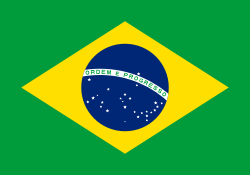
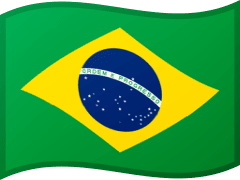
ScoreTable de los grupos con redux, banderas actualizadas

diff --git a/state/GroupsSlice.ts b/state/GroupsSlice.ts
@@ -1,9 +1,9 @@
 import { createSlice, PayloadAction } from '@reduxjs/toolkit';
-import { Team } from "../types/Team"
+import { TeamInGroup } from "../types/TeamInGroup"
 
 interface Group {
   groupId: number;
-  teams: { [teamName: string]: Team };
+  teams: { [teamName: string]: TeamInGroup };
 }
 
 interface GroupsState {
@@ -14,37 +14,37 @@ const initialState: GroupsState = {
   groupA: {
     groupId: 1,
     teams: {
-      teamA: { teamId: 1, name: 'Argentina', flag: require('./flags/ar.png'), goalsFor: 0, goalsAgainst: 0, goalDifference: 0, wins: 0, ties: 0, points: 0 },
-      teamB: { teamId: 2, name: 'Peru', flag: require('./flags/pe.png'), goalsFor: 0, goalsAgainst: 0, goalDifference: 0, wins: 0, ties: 0, points: 0 },
-      teamC: { teamId: 3, name: 'Chile', flag: require('./flags/cl.png'), goalsFor: 0, goalsAgainst: 0, goalDifference: 0, wins: 0, ties: 0, points: 0 },
-      teamD: { teamId: 4, name: 'Canada', flag: require('./flags/ca.png'), goalsFor: 0, goalsAgainst: 0, goalDifference: 0, wins: 0, ties: 0, points: 0 },
+      teamA: { teamId: 1, name: 'Argentina', flag: require('../assets/flags/ar.png'), goalsFor: 0, goalsAgainst: 0, goalDifference: 0, wins: 0, ties: 0, points: 0 },
+      teamB: { teamId: 2, name: 'Peru', flag: require('../assets/flags/pe.png'), goalsFor: 0, goalsAgainst: 0, goalDifference: 0, wins: 0, ties: 0, points: 0 },
+      teamC: { teamId: 3, name: 'Chile', flag: require('../assets/flags/cl.png'), goalsFor: 0, goalsAgainst: 0, goalDifference: 0, wins: 0, ties: 0, points: 0 },
+      teamD: { teamId: 4, name: 'Canada', flag: require('../assets/flags/ca.png'), goalsFor: 0, goalsAgainst: 0, goalDifference: 0, wins: 0, ties: 0, points: 0 },
     },
   },
   groupB: {
     groupId: 2,
     teams: {
-      teamA: { teamId: 5, name: 'Mexico', flag: require('./flags/mx.png'), goalsFor: 0, goalsAgainst: 0, goalDifference: 0, wins: 0, ties: 0, points: 0 },
-      teamB: { teamId: 6, name: 'Ecuador', flag: require('./flags/ec.png'), goalsFor: 0, goalsAgainst: 0, goalDifference: 0, wins: 0, ties: 0, points: 0 },
-      teamC: { teamId: 7, name: 'Venezuela', flag: require('./flags/ve.png'), goalsFor: 0, goalsAgainst: 0, goalDifference: 0, wins: 0, ties: 0, points: 0 },
-      teamD: { teamId: 8, name: 'Jamaica', flag: require('./flags/jm.png'), goalsFor: 0, goalsAgainst: 0, goalDifference: 0, wins: 0, ties: 0, points: 0 },
+      teamA: { teamId: 5, name: 'Mexico', flag: require('../assets/flags/mx.png'), goalsFor: 0, goalsAgainst: 0, goalDifference: 0, wins: 0, ties: 0, points: 0 },
+      teamB: { teamId: 6, name: 'Ecuador', flag: require('../assets/flags/ec.png'), goalsFor: 0, goalsAgainst: 0, goalDifference: 0, wins: 0, ties: 0, points: 0 },
+      teamC: { teamId: 7, name: 'Venezuela', flag: require('../assets/flags/ve.png'), goalsFor: 0, goalsAgainst: 0, goalDifference: 0, wins: 0, ties: 0, points: 0 },
+      teamD: { teamId: 8, name: 'Jamaica', flag: require('../assets/flags/jm.png'), goalsFor: 0, goalsAgainst: 0, goalDifference: 0, wins: 0, ties: 0, points: 0 },
     },
   },
   groupC: {
     groupId: 3,
     teams: {
-      teamA: { teamId: 9, name: 'USA', flag: require('./flags/us.png'), goalsFor: 0, goalsAgainst: 0, goalDifference: 0, wins: 0, ties: 0, points: 0 },
-      teamB: { teamId: 10, name: 'Uruguay', flag: require('./flags/uy.png'), goalsFor: 0, goalsAgainst: 0, goalDifference: 0, wins: 0, ties: 0, points: 0 },
-      teamC: { teamId: 11, name: 'Panama', flag: require('./flags/pa.png'), goalsFor: 0, goalsAgainst: 0, goalDifference: 0, wins: 0, ties: 0, points: 0 },
-      teamD: { teamId: 12, name: 'Bolivia', flag: require('./flags/bo.png'), goalsFor: 0, goalsAgainst: 0, goalDifference: 0, wins: 0, ties: 0, points: 0 },
+      teamA: { teamId: 9, name: 'USA', flag: require('../assets/flags/us.png'), goalsFor: 0, goalsAgainst: 0, goalDifference: 0, wins: 0, ties: 0, points: 0 },
+      teamB: { teamId: 10, name: 'Uruguay', flag: require('../assets/flags/uy.png'), goalsFor: 0, goalsAgainst: 0, goalDifference: 0, wins: 0, ties: 0, points: 0 },
+      teamC: { teamId: 11, name: 'Panama', flag: require('../assets/flags/pa.png'), goalsFor: 0, goalsAgainst: 0, goalDifference: 0, wins: 0, ties: 0, points: 0 },
+      teamD: { teamId: 12, name: 'Bolivia', flag: require('../assets/flags/bo.png'), goalsFor: 0, goalsAgainst: 0, goalDifference: 0, wins: 0, ties: 0, points: 0 },
     },
   },
   groupD: {
     groupId: 4,
     teams: {
-      teamA: { teamId: 13, name: 'Brazil', flag: require('./flags/br.png'), goalsFor: 0, goalsAgainst: 0, goalDifference: 0, wins: 0, ties: 0, points: 0 },
-      teamB: { teamId: 14, name: 'Colombia', flag: require('./flags/co.png'), goalsFor: 0, goalsAgainst: 0, goalDifference: 0, wins: 0, ties: 0, points: 0 },
-      teamC: { teamId: 15, name: 'Paraguay', flag: require('./flags/py.png'), goalsFor: 0, goalsAgainst: 0, goalDifference: 0, wins: 0, ties: 0, points: 0 },
-      teamD: { teamId: 16, name: 'Costa Rica', flag: require('./flags/cr.png'), goalsFor: 0, goalsAgainst: 0, goalDifference: 0, wins: 0, ties: 0, points: 0 },
+      teamA: { teamId: 13, name: 'Brazil', flag: require('../assets/flags/br.png'), goalsFor: 0, goalsAgainst: 0, goalDifference: 0, wins: 0, ties: 0, points: 0 },
+      teamB: { teamId: 14, name: 'Colombia', flag: require('../assets/flags/co.png'), goalsFor: 0, goalsAgainst: 0, goalDifference: 0, wins: 0, ties: 0, points: 0 },
+      teamC: { teamId: 15, name: 'Paraguay', flag: require('../assets/flags/py.png'), goalsFor: 0, goalsAgainst: 0, goalDifference: 0, wins: 0, ties: 0, points: 0 },
+      teamD: { teamId: 16, name: 'Costa Rica', flag: require('../assets/flags/cr.png'), goalsFor: 0, goalsAgainst: 0, goalDifference: 0, wins: 0, ties: 0, points: 0 },
     },
   },
 };

diff --git a/components/ScoreTable.tsx b/components/ScoreTable.tsx
@@ -1,0 +1,90 @@
+import * as React from "react";
+import { View, Text, Image, StyleSheet, FlatList } from "react-native";
+import { TeamInGroup } from "../types/TeamInGroup";
+
+interface ScoreTableProps {
+  teams: TeamInGroup[];
+}
+
+const ScoreTable = ({ teams }: ScoreTableProps) => {
+  const sortedTeams = teams.sort((a, b) => b.points - a.points);
+
+  const renderItem = ({ item }: { item: TeamInGroup }) => (
+    <View style={styles.row}>
+      <Image source={item.flag} style={styles.flag} resizeMode="contain"/>
+      <Text style={styles.cellName}>{item.name}</Text>
+      <Text style={styles.cell}>{item.wins}</Text>
+      <Text style={styles.cell}>{item.ties}</Text>
+      <Text style={styles.cell}>{item.goalsFor}</Text>
+      <Text style={styles.cell}>{item.goalsAgainst}</Text>
+      <Text style={styles.cell}>{item.goalDifference}</Text>
+      <Text style={styles.cell}>{item.points}</Text>
+    </View>
+  );
+
+  return (
+    <View style={styles.container}>
+      <View style={styles.header}>
+        <Text style={styles.headerCell}>FLAG</Text>
+        <Text style={styles.headerCellName}>NAME</Text>
+        <Text style={styles.headerCell}>WINS</Text>
+        <Text style={styles.headerCell}>TIES</Text>
+        <Text style={styles.headerCell}>GF</Text>
+        <Text style={styles.headerCell}>GA</Text>
+        <Text style={styles.headerCell}>GD</Text>
+        <Text style={styles.headerCell}>PTS</Text>
+      </View>
+      <FlatList
+        data={sortedTeams}
+        renderItem={renderItem}
+        keyExtractor={(item) => item.teamId.toString()}
+      />
+    </View>
+  );
+};
+
+const styles = StyleSheet.create({
+  container: {
+    margin: 10,
+    borderWidth: 1,
+    borderColor: "#ccc",
+    borderRadius: 8,
+    paddingHorizontal: 5,
+  },
+  header: {
+    flexDirection: "row",
+    paddingVertical: 10,
+    borderTopLeftRadius: 8,
+    borderTopRightRadius: 8,
+  },
+  row: {
+    flexDirection: "row",
+    borderTopWidth: 1,
+    borderTopColor: "#ccc",
+    paddingVertical: 10,
+  },
+  headerCell: {
+    flex: 1,
+    fontWeight: "bold",
+    textAlign: "center",
+  },
+  cell: {
+    flex: 1,
+    textAlign: "center",
+  },
+  headerCellName: {
+    flex: 2.8,
+    fontWeight: "bold",
+    textAlign: "center",
+  },
+  cellName: {
+    flex: 2.8,
+    textAlign: "center",
+  },
+  flag: {
+    width: 32,
+    height: 24,
+  },
+});
+
+export default ScoreTable;

diff --git a/pages/GroupAPage.tsx b/pages/GroupAPage.tsx
@@ -1,14 +1,19 @@
 import { NativeStackScreenProps } from '@react-navigation/native-stack';
 import * as React from 'react';
-import { Text, View, StyleSheet } from 'react-native';
+import { View, StyleSheet } from 'react-native';
 import { StackParamList } from '../types/MainStackTypes';
+import ScoreTable from '../components/ScoreTable';
+import { useSelector } from 'react-redux';
+import { RootState } from '../state/store';
 
 type GroupAPageProps = NativeStackScreenProps<StackParamList, "GroupAPage">
 
 const GroupAPage = ({navigation, route}: GroupAPageProps) => {
+    const groupATeams = useSelector((state: RootState) => state.groups.groupA.teams);
+    const teamsArray = Object.values(groupATeams);
   return (
     <View style={styles.container}>
-      <Text>GroupAPage</Text>
+        <ScoreTable teams={ teamsArray } />
     </View>
   );
 };

diff --git a/pages/GroupBPage.tsx b/pages/GroupBPage.tsx
@@ -1,14 +1,19 @@
 import { NativeStackScreenProps } from '@react-navigation/native-stack';
 import * as React from 'react';
-import { Text, View, StyleSheet } from 'react-native';
+import { View, StyleSheet } from 'react-native';
 import { StackParamList } from '../types/MainStackTypes';
+import ScoreTable from '../components/ScoreTable';
+import { useSelector } from 'react-redux';
+import { RootState } from '../state/store';
 
 type GroupBPageProps = NativeStackScreenProps<StackParamList, "GroupBPage">
 
 const GroupBPage = ({navigation, route}: GroupBPageProps) => {
+    const groupBTeams = useSelector((state: RootState) => state.groups.groupB.teams);
+    const teamsArray = Object.values(groupBTeams);
   return (
     <View style={styles.container}>
-      <Text>GroupBPage</Text>
+        <ScoreTable teams={ teamsArray } />
     </View>
   );
 };

diff --git a/pages/GroupCPage.tsx b/pages/GroupCPage.tsx
@@ -1,14 +1,19 @@
 import { NativeStackScreenProps } from '@react-navigation/native-stack';
 import * as React from 'react';
-import { Text, View, StyleSheet } from 'react-native';
+import { View, StyleSheet } from 'react-native';
 import { StackParamList } from '../types/MainStackTypes';
+import ScoreTable from '../components/ScoreTable';
+import { useSelector } from 'react-redux';
+import { RootState } from '../state/store';
 
 type GroupCPageProps = NativeStackScreenProps<StackParamList, "GroupCPage">
 
 const GroupCPage = ({navigation, route}: GroupCPageProps) => {
+    const groupCTeams = useSelector((state: RootState) => state.groups.groupC.teams);
+    const teamsArray = Object.values(groupCTeams);
   return (
     <View style={styles.container}>
-      <Text>GroupCPage</Text>
+        <ScoreTable teams={ teamsArray } />
     </View>
   );
 };

diff --git a/pages/GroupDPage.tsx b/pages/GroupDPage.tsx
@@ -1,14 +1,19 @@
 import { NativeStackScreenProps } from '@react-navigation/native-stack';
 import * as React from 'react';
-import { Text, View, StyleSheet } from 'react-native';
+import { View, StyleSheet } from 'react-native';
 import { StackParamList } from '../types/MainStackTypes';
+import ScoreTable from '../components/ScoreTable';
+import { useSelector } from 'react-redux';
+import { RootState } from '../state/store';
 
 type GroupDPageProps = NativeStackScreenProps<StackParamList, "GroupDPage">
 
 const GroupDPage = ({navigation, route}: GroupDPageProps) => {
+    const groupDTeams = useSelector((state: RootState) => state.groups.groupD.teams);
+    const teamsArray = Object.values(groupDTeams);
   return (
     <View style={styles.container}>
-      <Text>GroupDPage</Text>
+        <ScoreTable teams={ teamsArray } />
     </View>
   );
 };

diff --git a/App.tsx b/App.tsx
@@ -1,13 +1,16 @@
-import { StatusBar } from 'expo-status-bar';
 import { StyleSheet, Text, View } from 'react-native';
-import AllGroupsPage from './pages/AllGroupsPage';
 import MainStackNavigation from './components/MainStackNavigation';
+import { Provider } from 'react-redux';
+import { store } from './state/store';
 
 export default function App() {
   return (
-    <View style={styles.container}>
-      <MainStackNavigation/>
-    </View>
+    <Provider store={store}>
+
+      <View style={styles.container}>
+        <MainStackNavigation/>
+      </View>
+    </Provider>
   );
 }
 

diff --git a/state/store.ts b/state/store.ts
@@ -1,0 +1,13 @@
+import { configureStore } from "@reduxjs/toolkit";
+
+import groupsReducer from "./GroupsSlice"
+
+
+export const store = configureStore({
+  reducer: {
+    groups: groupsReducer,
+  },
+});
+
+export type RootState = ReturnType<typeof store.getState>;
+export type AppDispatch = typeof store.dispatch;

diff --git a/types/TeamInGroup.ts b/types/TeamInGroup.ts
@@ -1,6 +1,6 @@
 import { ImageSourcePropType } from 'react-native';
 
-export interface Team {
+export interface TeamInGroup {
   teamId: number;
   name: string;
   flag: ImageSourcePropType;
